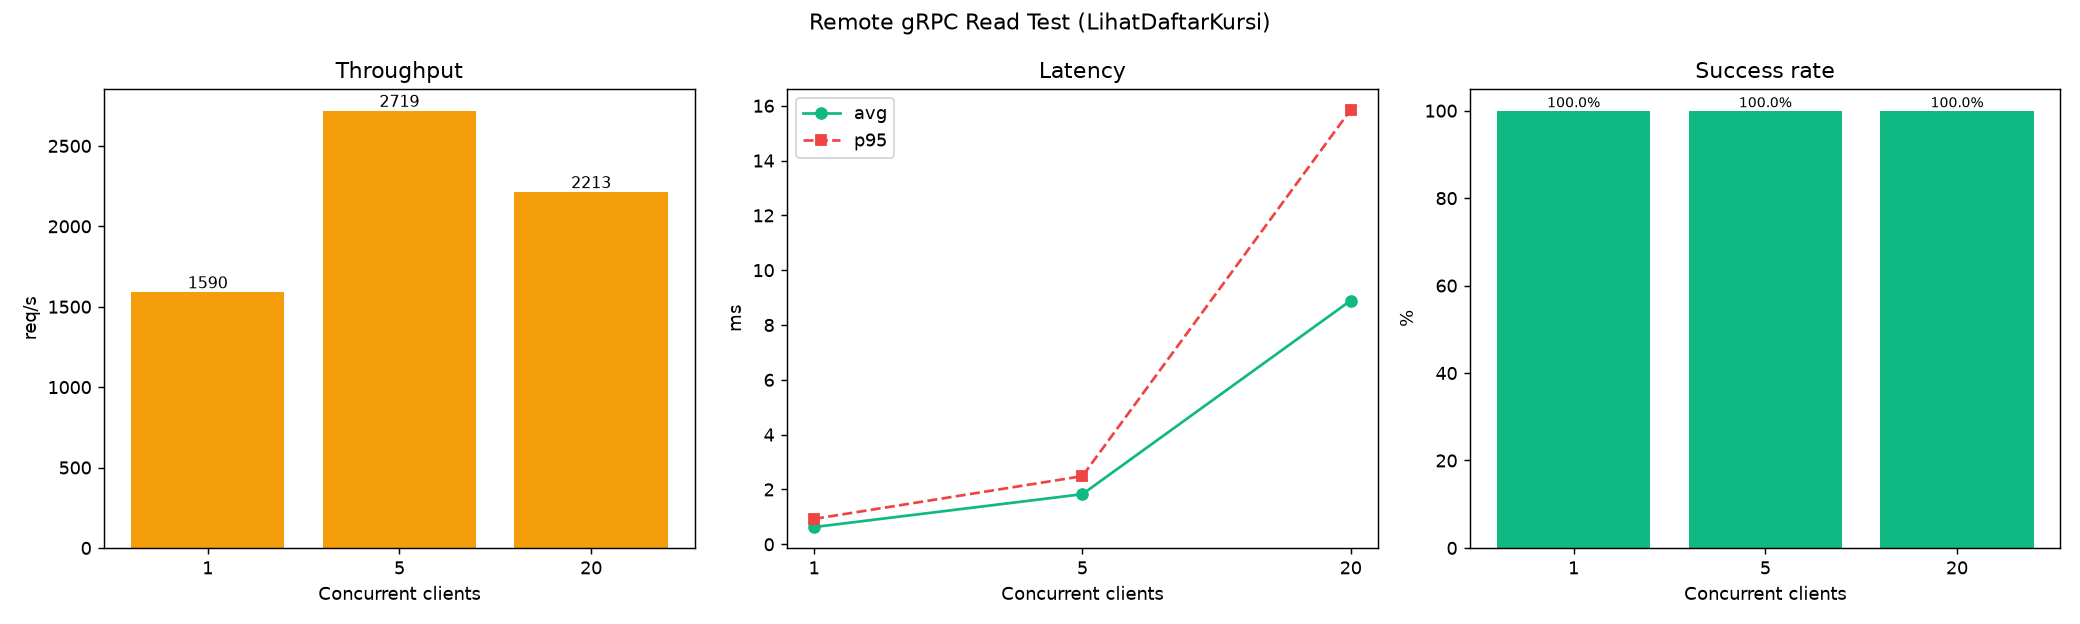
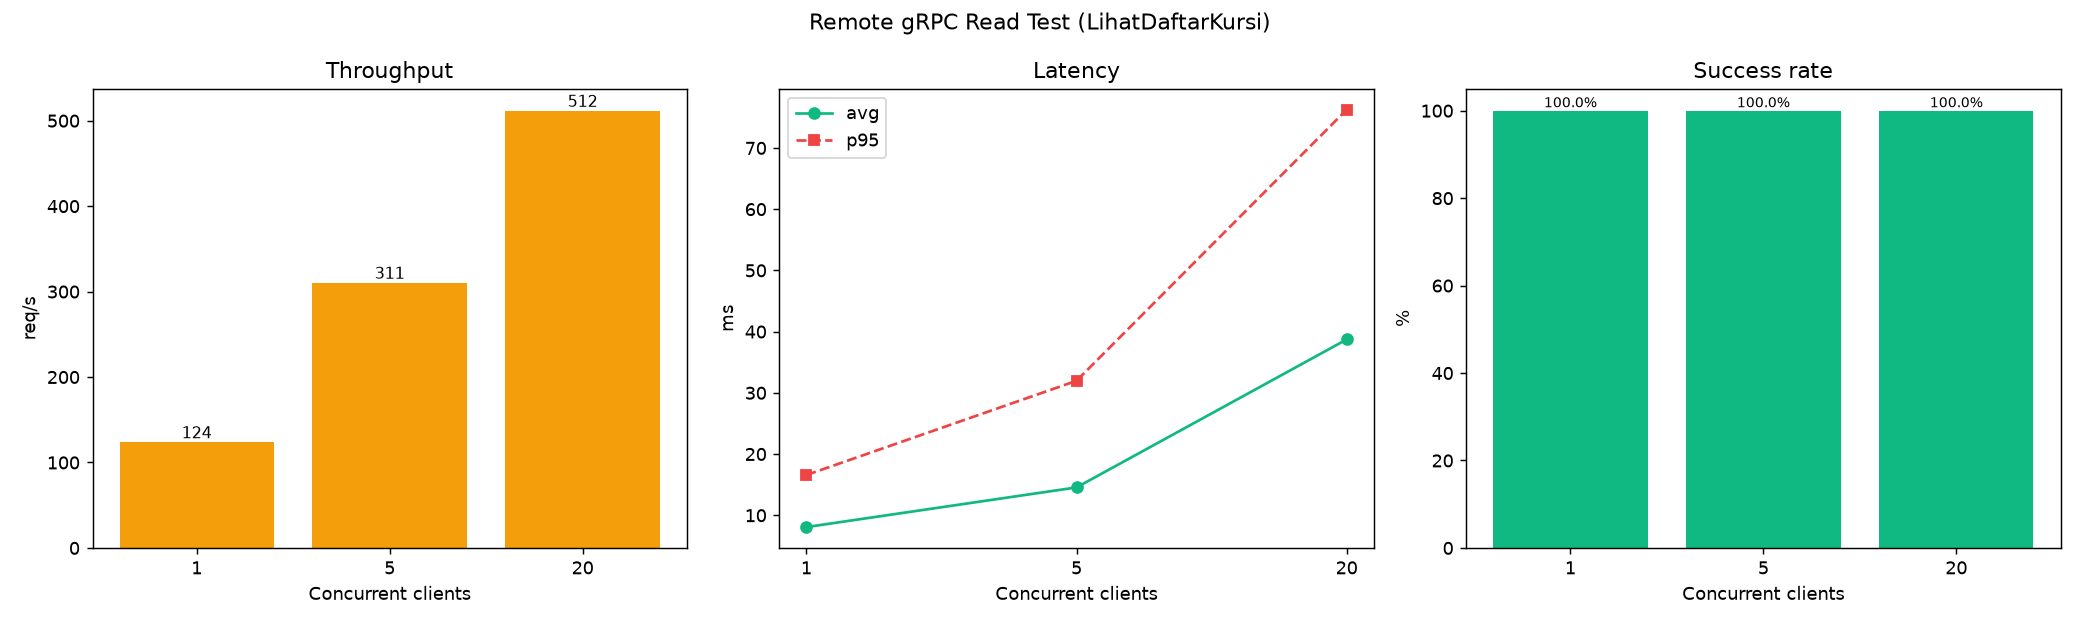
docs: grafik

diff --git a/load_test/results/remote_summary.md b/load_test/results/remote_summary.md
@@ -1,8 +1,8 @@
 # Remote gRPC Performance Test
 
-- Target          : `localhost:50073`
+- Target          : `192.168.18.229:50051`
 - Schedule        : `m-gerhana-1030`
-- Waktu           : 2026-11-02 16:23:24
+- Waktu           : 2026-11-02 16:37:38
 - Mesin penguji   : `DESKTOP-DNJ4J66` (Windows 11)
 - Python          : 3.14.7
 - Mode            : read-only `LihatDaftarKursi` (tanpa spawn server, tanpa booking)
@@ -11,9 +11,9 @@
 
 | Concurrency | Requests | Errors | Avg (ms) | p95 (ms) | Throughput (req/s) | Success |
 |---|---|---|---|---|---|---|
-| 1 | 200 | 0 | 0.63 | 0.93 | 1590.3 | 100.0% |
-| 5 | 500 | 0 | 1.83 | 2.49 | 2719.0 | 100.0% |
-| 20 | 1000 | 0 | 8.89 | 15.86 | 2213.4 | 100.0% |
+| 1 | 200 | 0 | 8.07 | 16.57 | 123.9 | 100.0% |
+| 5 | 500 | 0 | 14.55 | 31.97 | 310.5 | 100.0% |
+| 20 | 1000 | 0 | 38.72 | 76.25 | 511.7 | 100.0% |
 
 ## Catatan
 
